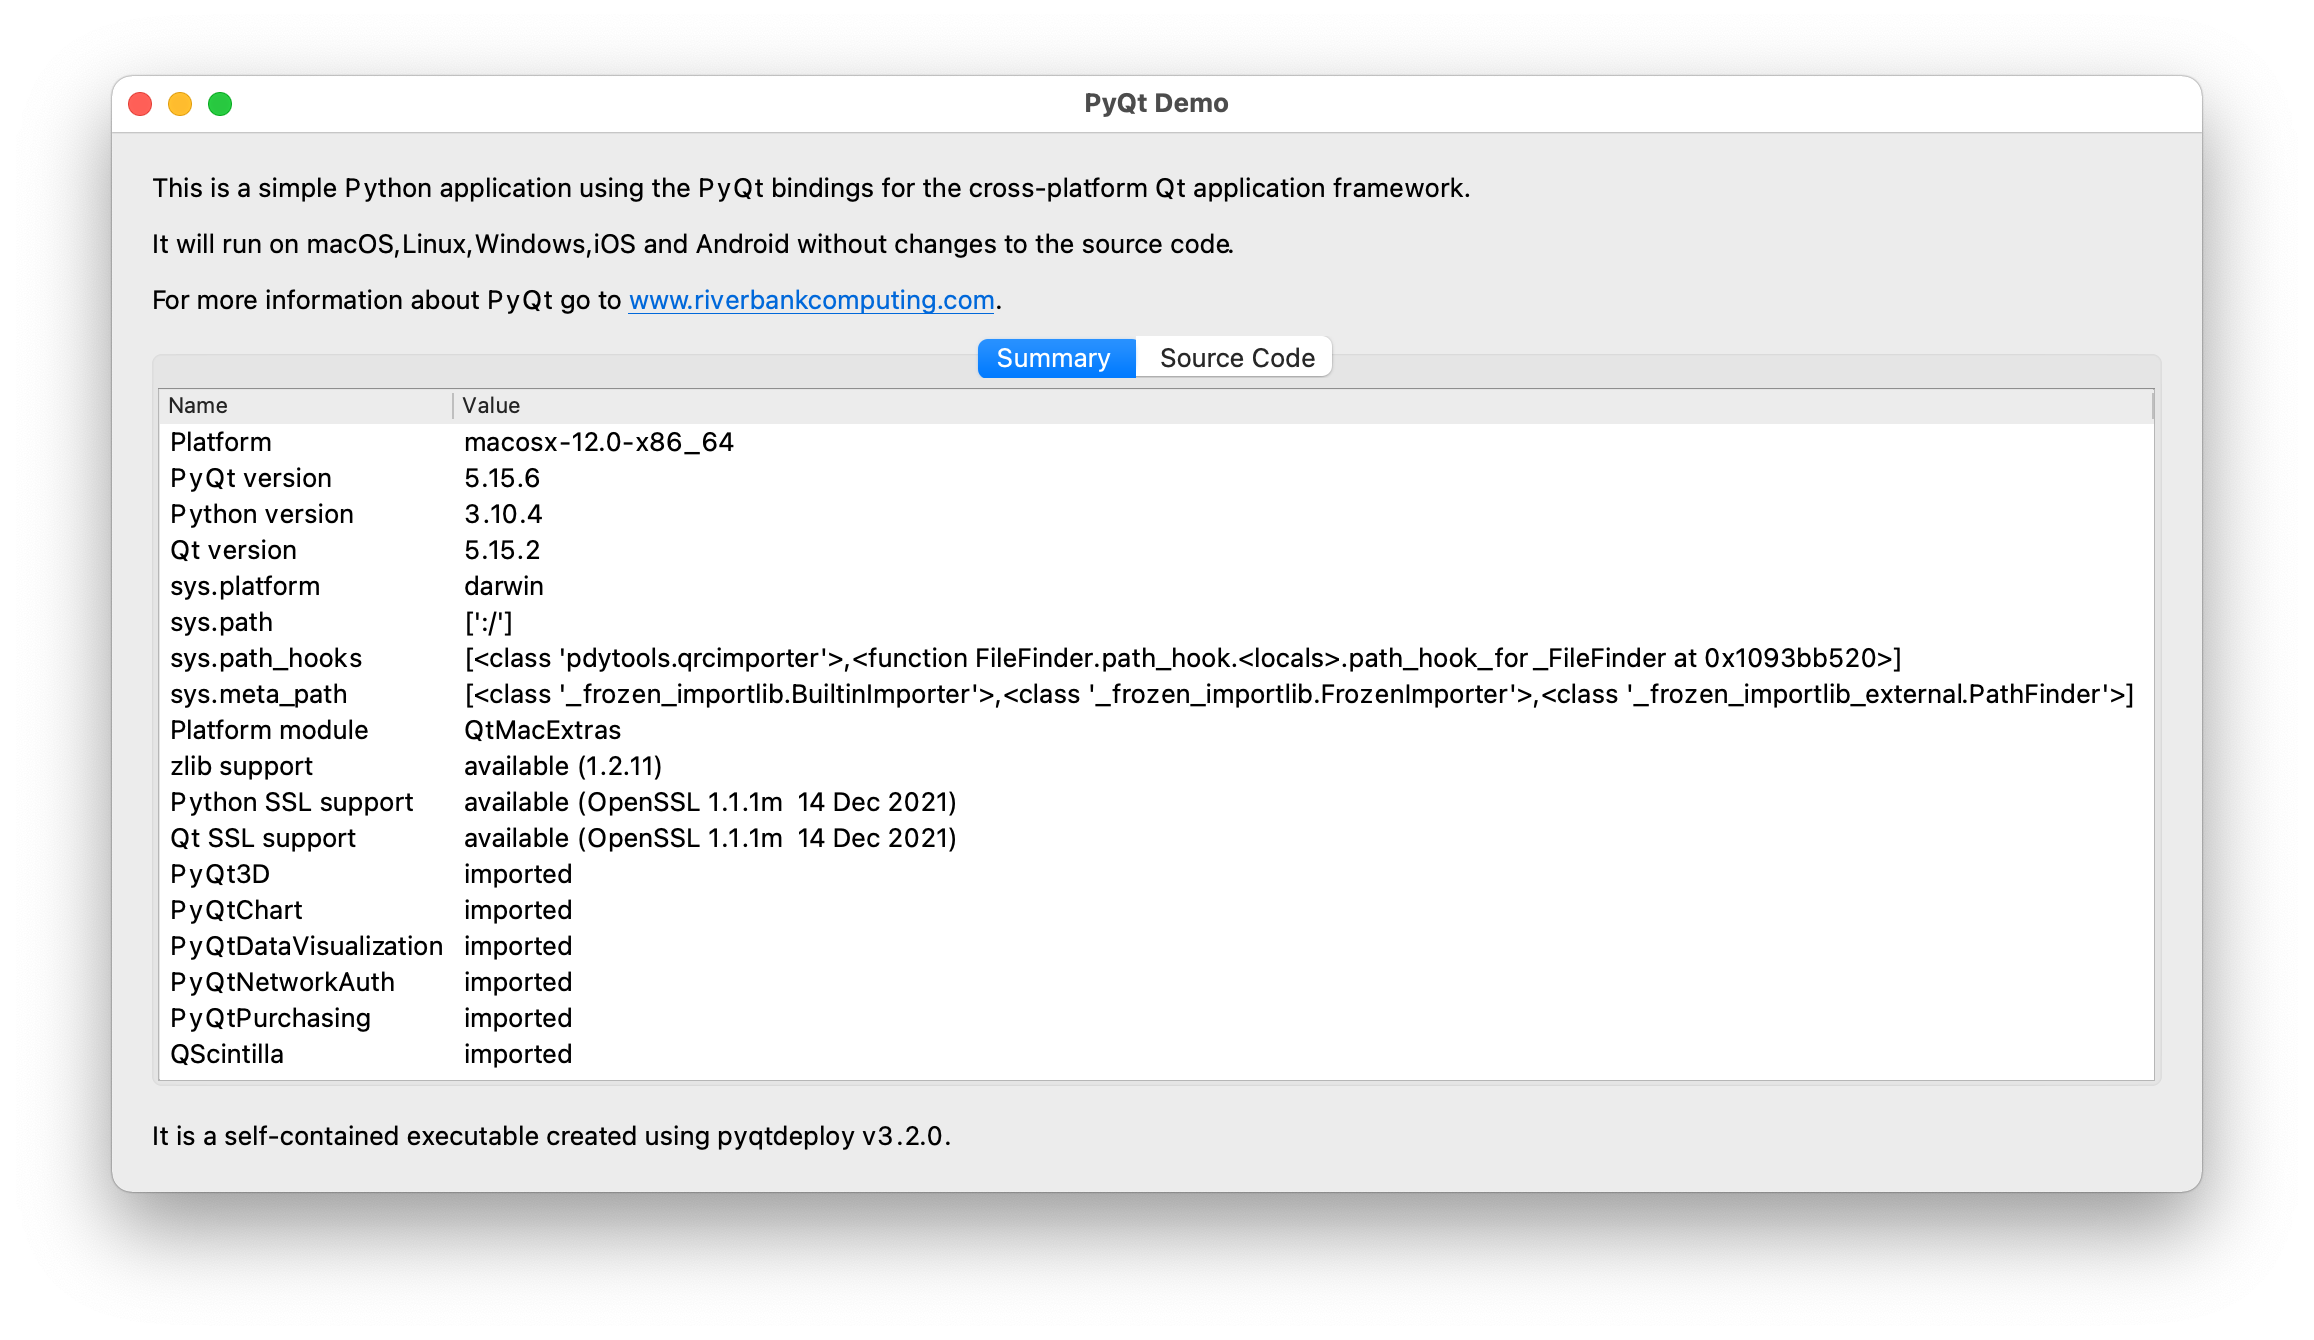
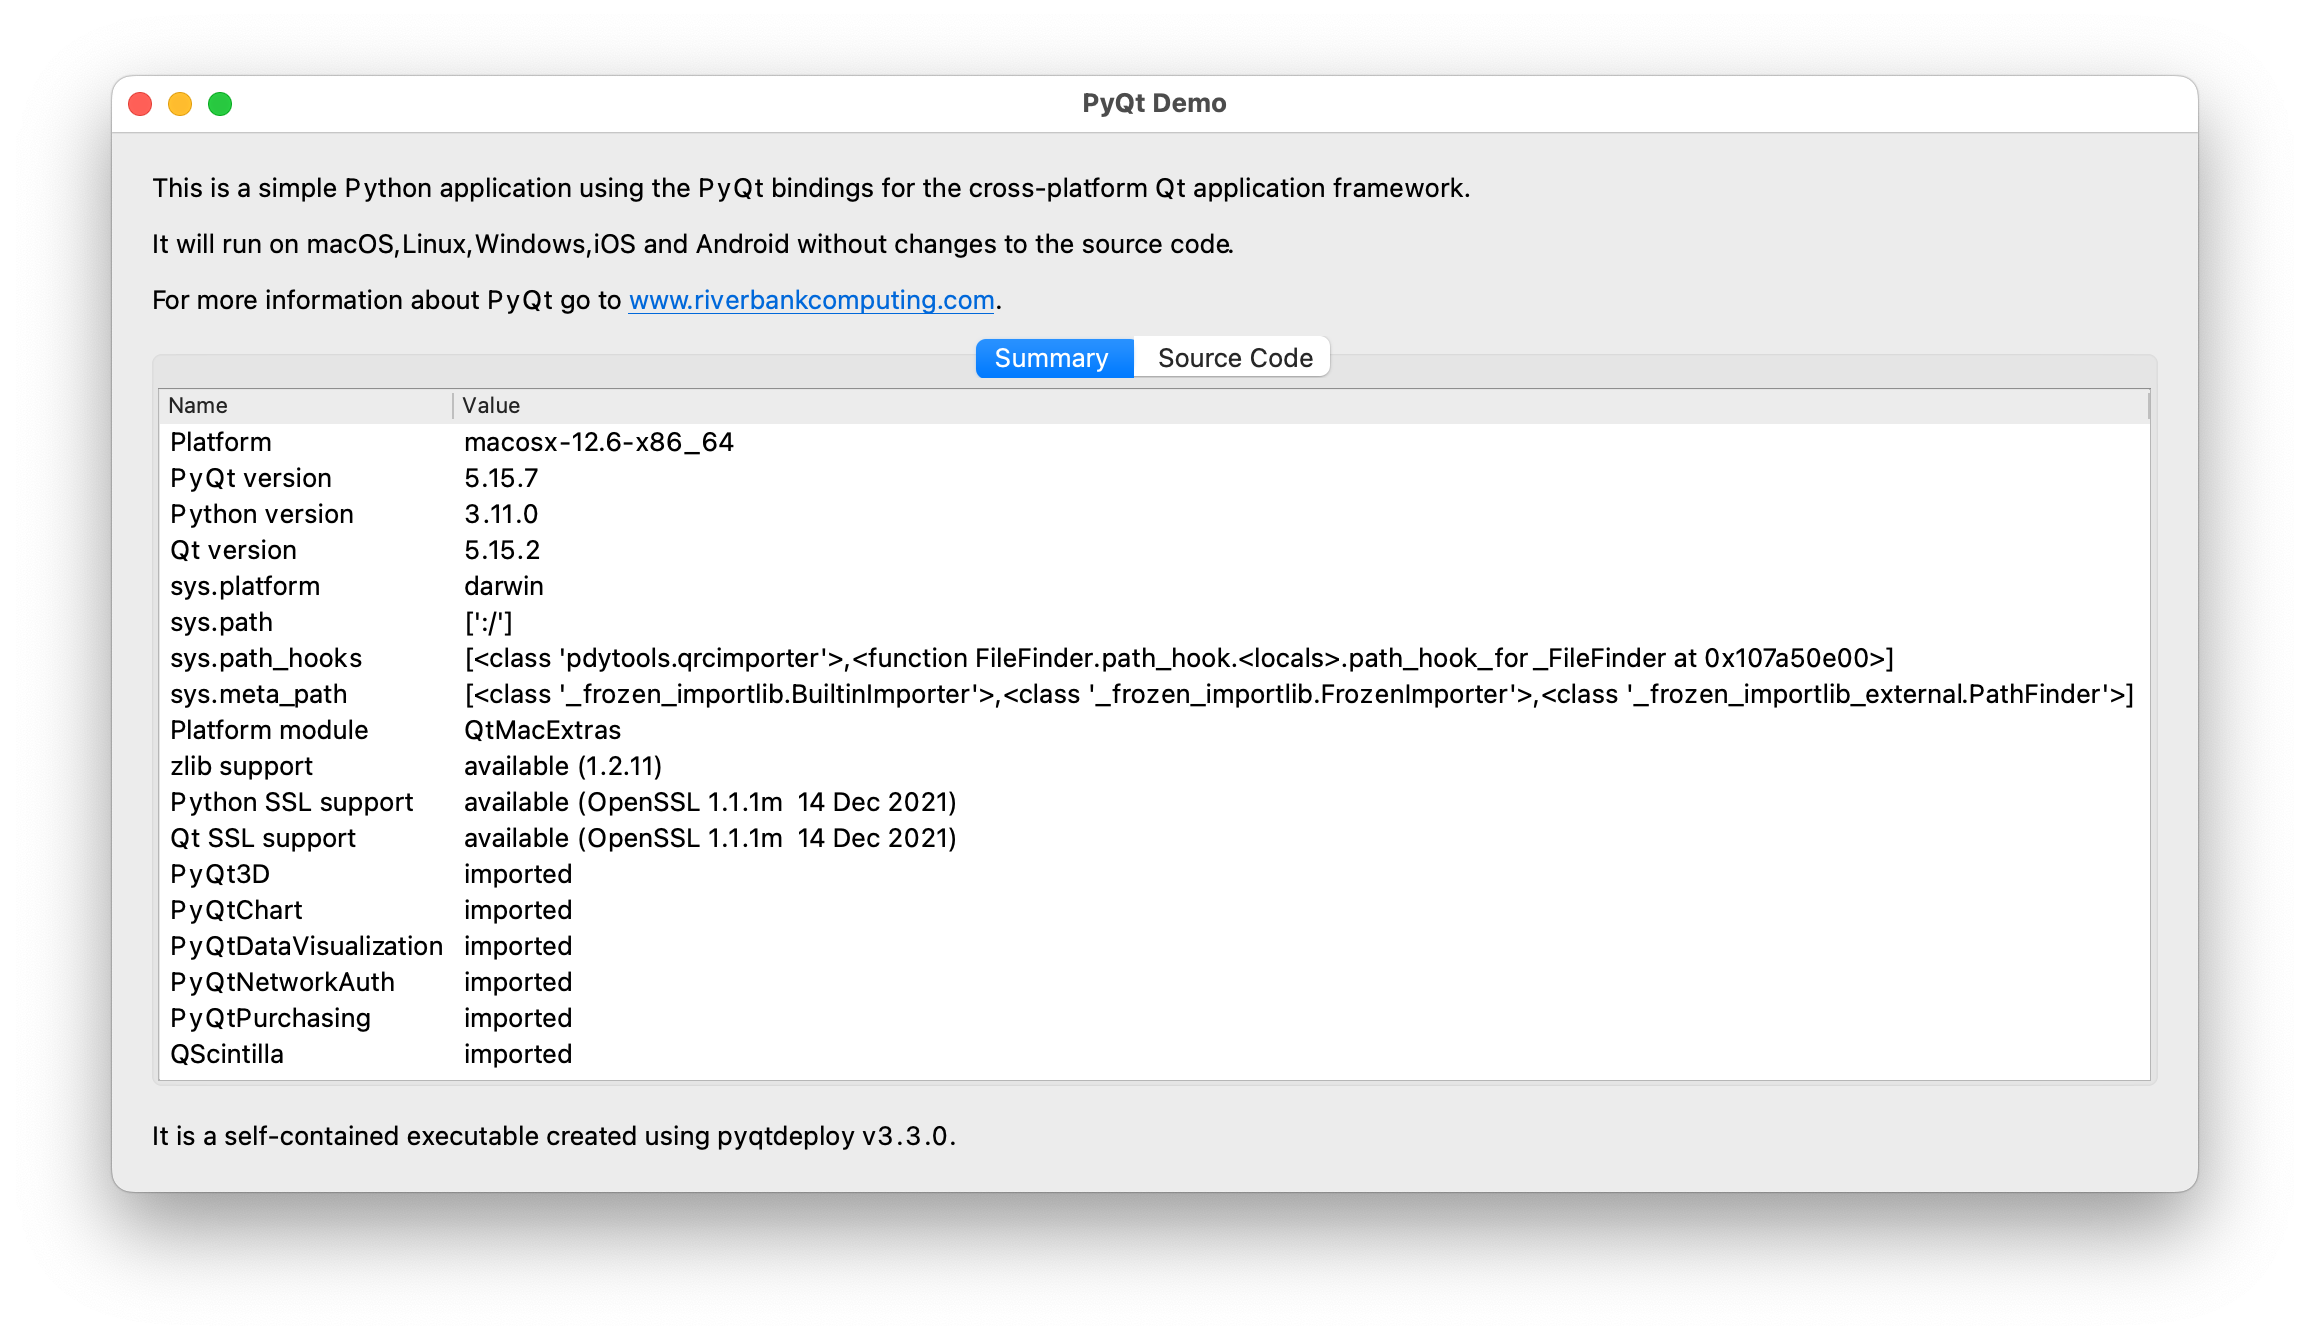
Updated the macOS demo screenshot.

diff --git a/doc/demo.rst b/doc/demo.rst
@@ -138,7 +138,7 @@ macOS
 .. image:: /images/pyqt-demo-macos-64.png
     :align: center
 
-**Host platform used:** macOS Monterey (v12.0.1)
+**Host platform used:** macOS Monterey (v12.6.1)
 
 **Development tools used:** Xcode v12.4
 
